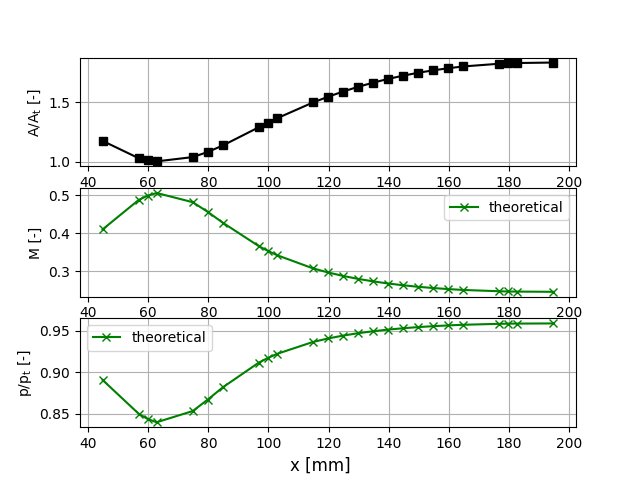
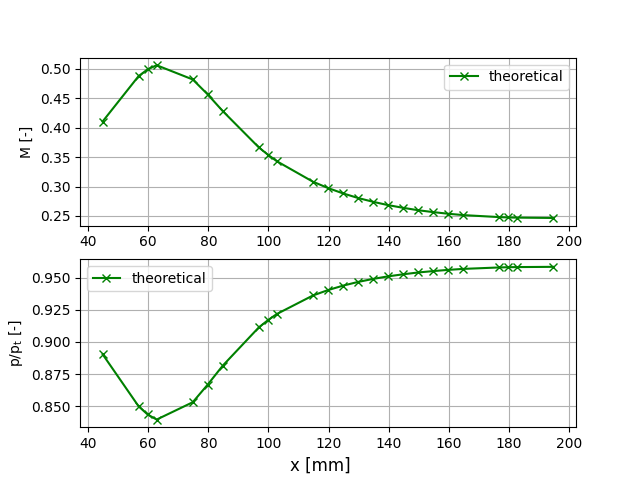
part2understood

Changed region(s): [[0.0, 0.125, 0.9062, 0.9062], [0.2188, 0.125, 0.2812, 0.1562], [0.0625, 0.125, 0.125, 0.1562]]

diff --git a/code/plotter_part1.py b/code/plotter_part1.py
@@ -32,68 +32,61 @@ save_to_folder = 'C://Users/matth/Documents/School/University/Delft/Courses/Year
 markers = ['-.', '-o', '-v', '-x', '-s', '-D']
 
 """
-Part 2 Supersonic Plots
+Part 1 Sub and Supersonic Plots
 """
 # M_nom = 2.1, x_throat = 65.0 mm, h_throat = 16.34 mm
-
-# f, (ax0,ax1,ax2) = plt.subplots(3)
-
-# ax0.plot(x, A_ratio, '-s', color='black')
-# ax0.set_ylabel('$\mathregular{A/A_{t}}$ [-]')
-
-# ax1.plot(x, M_sub, '-x', color='green', label='theoretical')
-# # ax1.plot(x, M_exp, '-v', color='red', label='experimental')
-# ax1.set_ylabel('M [-]')
-# ax1.legend(loc='best')
-
-# ax2.plot(x, p_ratio_sub, '-x', color='green', label='theoretical')
-# # ax2.plot(x, p_ratio_exp, '-v', color='red', label='experimental')
-# ax2.set_ylabel('$\mathregular{p/p_{t}}$ [-]')
-# ax2.legend(loc='best')
-
-# ax0.grid()
-# ax1.grid()
-# ax2.grid()
-# f.supxlabel('x [mm]')
-# plt.savefig(save_to_folder + 'x vs M (fully subsonic case)')
-# plt.show()
-
-
-
-"""
-Part 1 Supersonic Plots
-"""
-# M_nom = 2.1, x_throat = 65.0 mm, h_throat = 16.34 mm
-
-# f, (ax0,ax1,ax2) = plt.subplots(3)
-
-# ax0.plot(x, A_ratio, '-s', color='black')
-# ax0.set_ylabel('$\mathregular{A/A_{t}}$ [-]')
-
-# ax1.plot(x, M_sup, '-x', color='green', label='theoretical')
-# ax1.plot(x, M_exp, '-v', color='red', label='experimental')
-# ax1.set_ylabel('M [-]')
-# ax1.legend(loc='best')
-
-# ax2.plot(x, p_ratio_sup, '-x', color='green', label='theoretical')
-# ax2.plot(x, p_ratio_exp, '-v', color='red', label='experimental')
-# ax2.set_ylabel('$\mathregular{p/p_{t}}$ [-]')
-# ax2.legend(loc='best')
-
-# ax0.grid()
-# ax1.grid()
-# ax2.grid()
-# f.supxlabel('x [mm]')
-# plt.savefig(save_to_folder + 'x vs M (subsonic-supersonic case)')
-# plt.show()
-
 # $\mathregular{u_{p}(t)}$
 
 
-plt.grid()
-plt.plot(x_along_diffuser, diffuser_height, '-')
-plt.xlabel('x_along_diffuser [mm]')
-plt.ylabel('diffuser_height [mm]')
-# plt.legend(loc='best')
-plt.savefig(save_to_folder + 'diffuser geometry')
+f, axs = plt.subplots(2,2)
+
+# ax0.plot(x, A_ratio, '-s', color='black')
+# ax0.set_ylabel('$\mathregular{A/A_{t}}$ [-]')
+
+# subsonic mach
+axs[0,0].plot(x, M_sub, '-x', color='green', label='theoretical')
+axs[0,0].plot(x, M_exp, '-v', color='red', label='experimental')
+axs[0,0].set_ylabel('M [-]')
+axs[0,0].legend(loc='best')
+
+# subsonic pressure ratio
+axs[1,0].plot(x, p_ratio_sub, '-x', color='green', label='theoretical')
+axs[1,0].plot(x, p_ratio_exp, '-v', color='red', label='experimental')
+axs[1,0].set_ylabel('$\mathregular{p/p_{t}}$ [-]')
+axs[1,0].legend(loc='best')
+
+# supersonic mach
+axs[0,1].plot(x, M_sup, '-x', color='green', label='theoretical')
+axs[0,1].plot(x, M_exp, '-v', color='red', label='experimental')
+# axs[0,1].set_ylabel('M [-]')
+axs[0,1].legend(loc='best')
+
+# supersonic pressure ratio
+axs[1,1].plot(x, p_ratio_sup, '-x', color='green', label='theoretical')
+axs[1,1].plot(x, p_ratio_exp, '-v', color='red', label='experimental')
+# axs[1,1].set_ylabel('$\mathregular{p/p_{t}}$ [-]')
+axs[1,1].legend(loc='best')
+
+# ax0.grid()
+axs[0,0].grid()
+axs[1,0].grid()
+axs[0,1].grid()
+axs[1,1].grid()
+f.supxlabel('x [mm]')
+plt.savefig(save_to_folder + 'x vs M (subsonic-supersonic case)')
 plt.show()
+
+
+
+
+
+"""
+Diffuser Plot
+"""
+# plt.grid()
+# plt.plot(x_along_diffuser, diffuser_height, '-')
+# plt.xlabel('x_along_diffuser [mm]')
+# plt.ylabel('diffuser_height [mm]')
+# # plt.legend(loc='best')
+# plt.savefig(save_to_folder + 'diffuser geometry')
+# plt.show()

diff --git a/code/part2.py b/code/part2.py
@@ -15,30 +15,75 @@ CONSTANTS
 gamma = 1.4
 
 
-
+"""
+Diffuser Geometry
+"""
 def diffuser_geom(hk2, slope, h0):
     x_min = 410 
     x_max = 760
+    step = 2
 
     x_along_diffuser = []
-    diffuser_height=[]
+    diffuser_height = []
+    area_ratio = []
     x = x_min
-    while x <= 760:
+    while x <= x_max:
         x_along_diffuser.append(x)
         x_ref = x - x_min
-        h = slope * x_ref + h0
+        h_diffuse = slope * x_ref + h0
+        h = h_diffuse + hk2
         diffuser_height.append(h)
+        A_ratio = h / hk2
+        area_ratio.append(A_ratio)
 
-        x += 10
+        x += 2
 
 
-    return x_along_diffuser, diffuser_height
+    return x_along_diffuser, diffuser_height, area_ratio
 
 
 # Group A Geometry (4: 15mm, 5: 10mm)
 # diffuser_height = diffuser_geom(14.6, 0.01692, 8.0)
 
 # Group B Geometry (4: 18mm, 5: 10mm)
-x_along_diffuser, diffuser_height = diffuser_geom(11.8, 0.02472, 2.2)
-print(x_along_diffuser)
-print(diffuser_height)
+x_along_diffuser, diffuser_height, area_ratio = diffuser_geom(11.8, 0.02472, 2.2)
+# print(x_along_diffuser)
+# print(diffuser_height)
+# print(area_ratio)
+
+
+
+"""
+Takes in location of a shock 
+Computes the area ratio from the height distribution
+Computes mach numnber from area ratio
+Computes pressure ratio from mach number
+"""
+def pressure_ratio_shock_location(shock_location):
+    pressure_ratio = 1
+    area_ratio_local = numpy.interp(shock_location, x_along_diffuser, area_ratio)
+    
+    # (p/p_t)6
+    # ideally expanded case
+    # using isentropic relations (supersonic)
+    output = flowtools.flowisentropic2(gamma, area_ratio_local, 'sup')
+    Me6 = output[0]
+    pe6_pt = output[2]
+
+    # (p/p_t)5
+    # using normal shock relations to 'jump' back to (p/p_t)6 right after shock
+    output = flowtools.flownormalshock2(gamma, Me6, 'mach') # Me6 is actually downstream but we take it as upstream 
+    pe5_pe6 = output[2] # output is downstream/upstream but since we reversed mach input this does not need reciprocal
+    pe5_pt = pe5_pe6 * pe6_pt
+
+    # (p/p_t)3
+    # using isentropic flow relations (subsonic)
+    output = flowtools.flowisentropic2(gamma, area_ratio_local, 'sub')
+    Me3 = output[0]
+    pe3_pt = output[2]
+
+
+    return pe6_pt, pe5_pt, pe3_pt
+
+pe6_pt, pe5_pt, pe3_pt =  pressure_ratio_shock_location(630)
+print(f"pe6_pt {pe6_pt}, pe5/pt {pe5_pt}, pe3/pt {pe3_pt}")

diff --git a/code/text_reader.py b/code/text_reader.py
@@ -6,23 +6,42 @@ import re, pandas
 
 file = Path(r"C:\Users\matth\Documents\School\University\Delft\Courses\Year 2\Q2\Aero II\High Speed Practical\channel_variation.txt")
 
-# for test_results
-def x_y_extract(filepath):
-    new_data = list(filter(None, [re.split('\s+', i.strip('\n')) for i in open(filepath)]))
-    # result = pandas.DataFrame(new_data)
+# # for test_results
+# def x_y_extract(filepath):
+#     new_data = list(filter(None, [re.split('\s+', i.strip('\n')) for i in open(filepath)]))
+#     # result = pandas.DataFrame(new_data)
 
-    x = []
-    y = []
-    for row in new_data:
-        x.append(float(row[1]))
-        y.append(float(row[2]))
+#     x = []
+#     y = []
+#     for row in new_data:
+#         x.append(float(row[1]))
+#         y.append(float(row[2]))
 
-    return x,y
+#     return x,y
 
-x,y = x_y_extract(file)
-print(x,y)
+# x,y = x_y_extract(file)
+# print(x,y)
 
-# for channel variation file
+# # for channel variation file
+# def x_y_extract_channel(filepath):
+#     new_data = list(filter(None, [re.split('\s+', i.strip('\n')) for i in open(filepath)]))
+#     # result = pandas.DataFrame(new_data)
+
+#     x_dist = []
+#     y_dist = []
+#     A_dist_ratio = []
+#     for row in new_data:
+#         x_dist.append(float(row[0]))
+#         y_dist.append(float(row[1]))
+#         A_dist_ratio.append(float(row[2]))
+
+
+#     return x_dist, y_dist, A_dist_ratio
+
+# x_dist, y_dist, A_dist_ratio = x_y_extract_channel(file)
+# print(x_dist, y_dist, A_dist_ratio)
+
+# for adjustable diffuser variation file
 def x_y_extract_channel(filepath):
     new_data = list(filter(None, [re.split('\s+', i.strip('\n')) for i in open(filepath)]))
     # result = pandas.DataFrame(new_data)
